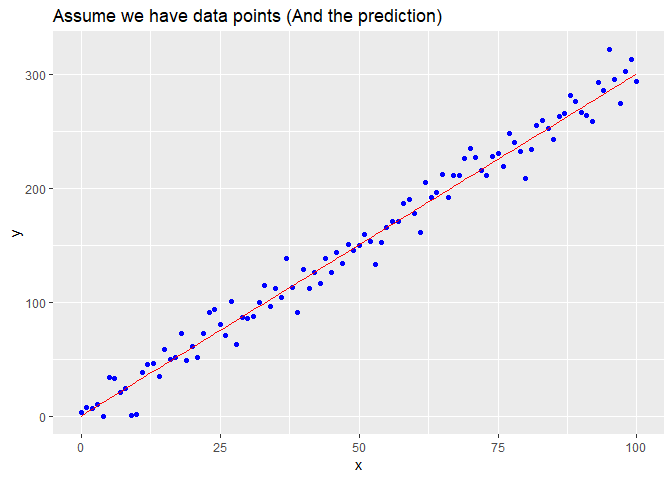
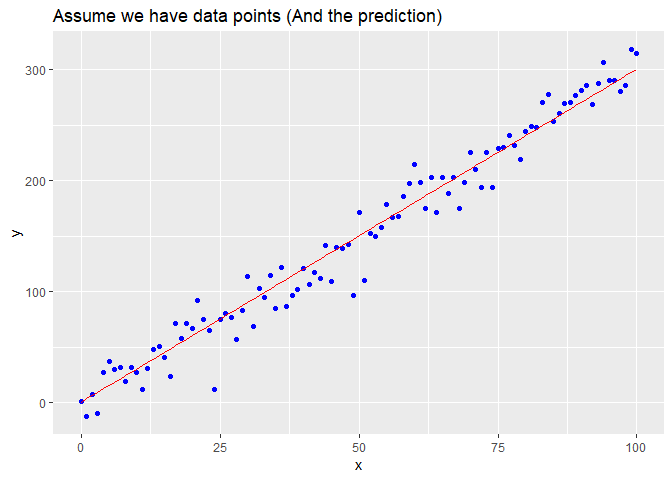
Day001

diff --git a/Homework/Day001.md b/Homework/Day001.md
@@ -32,7 +32,7 @@ head(dat)
 4.  The dataset aims to understand the influence of various factors like economic, personal and social on the students performance.
 
 -   Inferences:
--   How to imporve the students performance in each test ?
+-   How to imporve the students' performance in each test ?
 -   What are the major factors influencing the test scores ?
 -   Effectiveness of test preparation course?
 
@@ -41,7 +41,7 @@ HW2
 
 1.  The key problem is to have statistically significant increasing on revenue through the data analysis.
 2.  Data such like taxi experience, location of boarding and alighting point, driver's service, and so on.
-3.  Data mentioned above is supposed to structured, and it's also to be more convinent for analysis.
+3.  Data mentioned above is supposed to be structured, and it is also more convinent for analysis.
 4.  Run a regression to check the significance of the hypothesis.
 
 HW3
@@ -94,5 +94,5 @@ str2 <- paste("The Mean absolute error is", sprintf("%.3f",(MAE(y,y_hat))))
 cat(str1,str2, sep ="\n")
 ```
 
-    ## The Mean squared error is 159.351
-    ## The Mean absolute error is 9.807
+    ## The Mean squared error is 273.402
+    ## The Mean absolute error is 12.591
